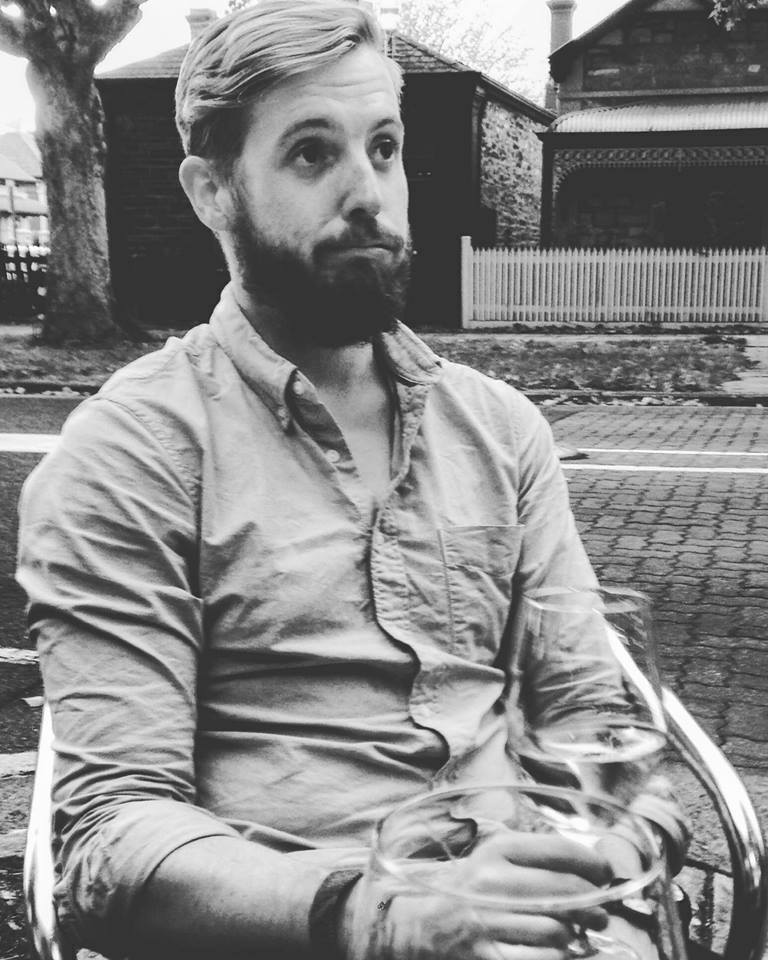
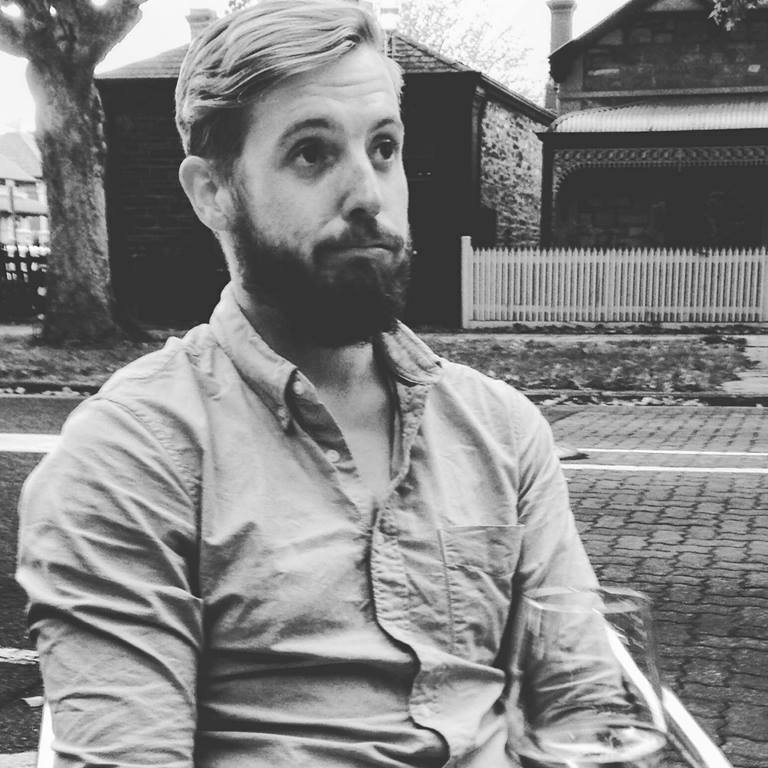
created about page

diff --git a/css/style.css b/css/style.css
@@ -66,7 +66,6 @@ h2 {
 
 h3 {
   font-weight: 300;
-  font-style: italic;
   font-size: 2em;
 }
 
@@ -88,12 +87,32 @@ p {
   line-height: 1.5em;
 }
 
+a {
+  font-weight: 400;
+  text-decoration:none;
+  font-size: 1.3em;
+  line-height: 1.5em;
+  color: #0075FF;
+}
+
+a:hover {
+  text-decoration: none;
+  color: #9CEDFF;
+}
+
+.img-responsive {
+  display: inline-block;
+}
+
 @media(min-width:34em){
 
-  a {
+  /*a {
     font-weight: 400;
     text-decoration:none;
-  }
+    font-size: 1.3em;
+    line-height: 1.5em;
+    color: #0075FF;
+  }*/
 
   label{
     font-size: 0.8em;
@@ -230,18 +249,8 @@ HEADER
 
 @media(min-width:48em){
 
-  .navbar-nav {
-    /*padding: 1em 0 1em 0;
-    margin-right: 1em;*/
-  }
-
-  .navbar-collapse li {
-    /*padding: 0 0.5em 0 0.5em;*/
-  }
-
   .navbar-default .navbar-collapse a {
     border-top: none;
-    /*padding: 0.3em 0.5em 0.3em 0.5em;*/
   }
 
   .navbar-default .navbar-nav > li > a:hover, .navbar-default .navbar-nav > li > a:focus {
@@ -456,6 +465,45 @@ PHOTOS
 
 }
 
+/*---------------------------------------
+PHOTOS
+---------------------------------------*/
+#about {
+  margin-top: 7.5em; /* To account for fixed header*/
+  margin-bottom: 2em;
+}
+
+#about h3 {
+  margin-top: 0.2em;
+  margin-bottom: 0.4em;
+}
+
+#about h3:first-of-type {
+  margin-top: 1em;
+}
+
+#about h5 {
+  margin-top: 2em;
+}
+
+#about h5:first-of-type {
+  margin-top: 0;
+}
+
+#about p {
+  margin: 0;
+  padding-top: 0.3em;
+  padding-bottom: 1em;
+}
+
+#about div p:first-of-type {
+  margin-top: 2em;
+  padding-bottom: 0;
+}
+
+#about a {
+  margin-top: 1.5em;
+}
 
 /*---------------------------------------
 FOOTER

diff --git a/about.html b/about.html
@@ -46,9 +46,29 @@
 
 
       <!-- ABOUT -->
-      <section id="about" class="container-fluid section">
+      <section id="about" class="container-fluid">
         <div class="row-fluid">
-          <img src="img/Alex.jpg" alt="Alex Portrait" />
+          <div class="col-xs-12 col-sm-4">
+            <img class="img-responsive" src="img/Alex_300x300.jpg" alt="Alex Portrait" />
+            <h3><i>My name is</i> <b>Alex Arney.</b></h3>
+            <h3><i>I live in</i> <b>Melbourne, Austalia.</b><h3>
+          </div>
+          <div class="col-xs-12 col-sm-8">
+            <div class="col-xs-12 col-sm-6">
+              <h5>What I'm listening to</h5>
+              <img src="img/khruangbin_200x200.jpg" alt="album cover"/>
+              <p><b>The Universe Smiles Upon You</b></p>
+              <p>by Khruangabin</p>
+              <a href="https://khruangbin.bandcamp.com/album/the-universe-smiles-upon-you" target="_blank">Listen</a>
+            </div>
+            <div class="col-xs-12 col-sm-6">
+              <h5>What I'm reading</h5>
+              <img src="img/Design_for_Real_Life_129x200.jpeg" alt="book cover"/>
+              <p><b>Design for Real Life</b></p>
+              <p>by Eric Meyer & Sara Wachter-Boettcher</p>
+              <a href="https://abookapart.com/products/design-for-real-life" target="_blank">Read</a>
+            </div>
+          </div>
         </div>
       </section>
 
